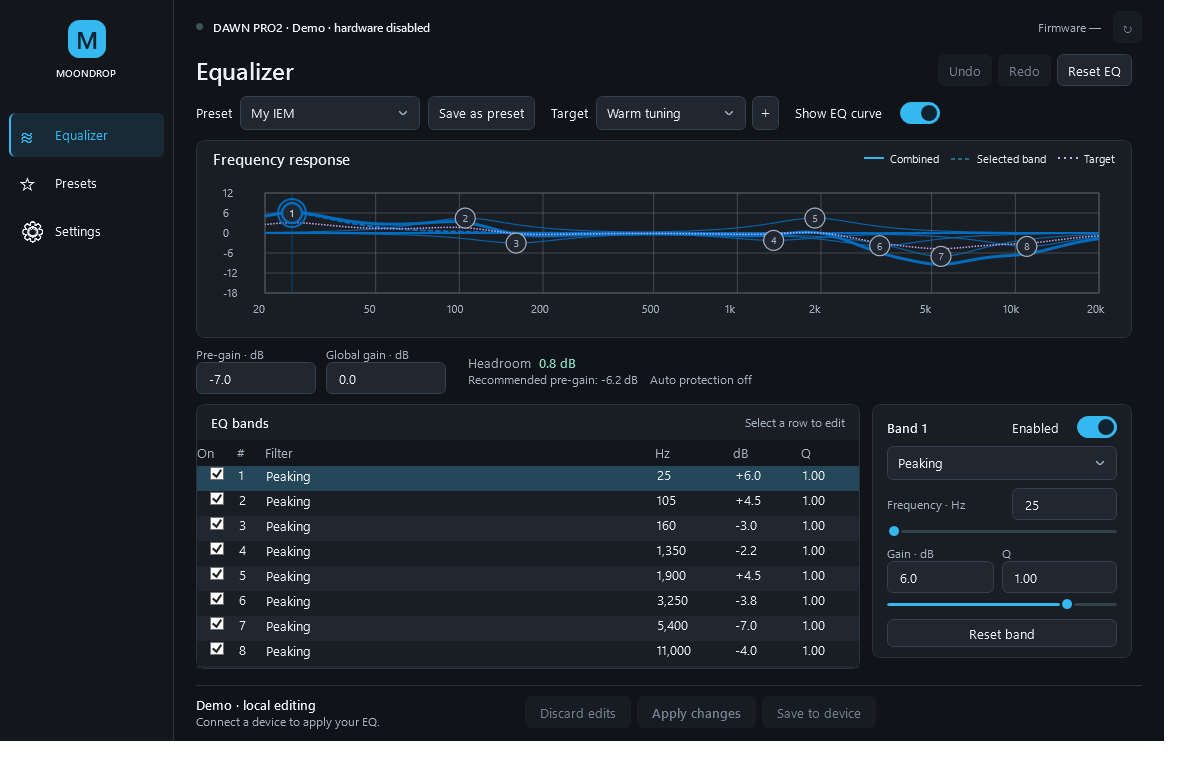
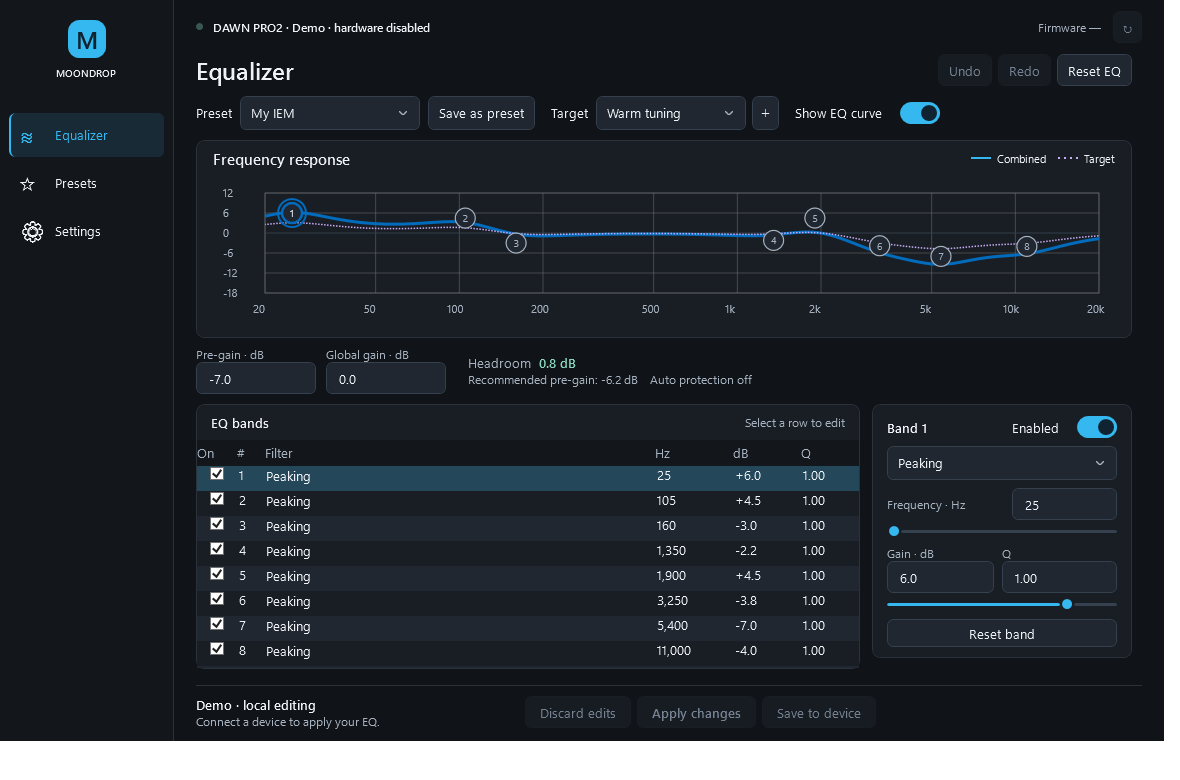
Simplify the EQ graph and fix Windows runner compatibility

diff --git a/src/Moondrop.Wpf/MainWindow.xaml b/src/Moondrop.Wpf/MainWindow.xaml
@@ -45,7 +45,7 @@
         <Border x:Name="GraphCard" Height="222" Style="{StaticResource CompactCardBorderStyle}" Padding="12,8">
          <Grid><Grid.RowDefinitions><RowDefinition Height="Auto"/><RowDefinition Height="*"/></Grid.RowDefinitions>
           <Grid Margin="4,0,4,6"><Grid.ColumnDefinitions><ColumnDefinition/><ColumnDefinition Width="Auto"/></Grid.ColumnDefinitions><TextBlock Text="Frequency response" Style="{StaticResource SectionTitleTextStyle}"/>
-           <WrapPanel Grid.Column="1" VerticalAlignment="Center"><Line X1="0" X2="20" Stroke="{DynamicResource AccentFillColorDefaultBrush}" StrokeThickness="2" Width="20" VerticalAlignment="Center"/><TextBlock Text="Combined" FontSize="11" Margin="6,0,12,0"/><Line X1="0" X2="20" Stroke="{DynamicResource AccentFillColorDefaultBrush}" StrokeThickness="1" StrokeDashArray="4 3" Width="20" VerticalAlignment="Center"/><TextBlock Text="Selected band" FontSize="11" Margin="6,0,12,0"/><Line X1="0" X2="20" Stroke="{DynamicResource TargetBrush}" StrokeThickness="2" StrokeDashArray="1 2" Width="20" VerticalAlignment="Center"/><TextBlock Text="Target" FontSize="11" Margin="6,0,0,0"/></WrapPanel>
+           <WrapPanel Grid.Column="1" VerticalAlignment="Center"><Line X1="0" X2="20" Stroke="{DynamicResource AccentFillColorDefaultBrush}" StrokeThickness="2" Width="20" VerticalAlignment="Center"/><TextBlock Text="Combined" FontSize="11" Margin="6,0,12,0"/><StackPanel Orientation="Horizontal" Visibility="{Binding IndividualCurves, Converter={StaticResource BoolToVisibility}}"><Line X1="0" X2="20" Stroke="{DynamicResource AccentFillColorDefaultBrush}" StrokeThickness="1" StrokeDashArray="4 3" Width="20" VerticalAlignment="Center"/><TextBlock Text="Selected band" FontSize="11" Margin="6,0,12,0"/></StackPanel><Line X1="0" X2="20" Stroke="{DynamicResource TargetBrush}" StrokeThickness="2" StrokeDashArray="1 2" Width="20" VerticalAlignment="Center"/><TextBlock Text="Target" FontSize="11" Margin="6,0,0,0"/></WrapPanel>
           </Grid>
           <local:EqGraph x:Name="EqGraphControl" Grid.Row="1" Bands="{Binding Bands}" PreGain="0" SelectedBandIndex="{Binding SelectedBandIndex, Mode=TwoWay}" IndividualCurves="{Binding IndividualCurves}" ReferenceBands="{Binding ReferenceBands}" ShowReference="{Binding ShowReferenceCurve}" PreviewEnabled="{Binding PreviewEq}" AutomationProperties.Name="EQ response graph" AutomationProperties.HelpText="EQ filter shapes in dB versus frequency in Hz. Gains are shown separately. Arrow keys edit frequency and gain; Page Up/Down edit Q; Ctrl arrows select bands." ToolTip="EQ filter shapes only; pre-gain and global gain are shown separately. Drag a marker to edit frequency and gain; scroll to adjust Q."/>
          </Grid>

diff --git a/tests-dotnet/Moondrop.Tests/PhysicalWatchdogTests.cs b/tests-dotnet/Moondrop.Tests/PhysicalWatchdogTests.cs
@@ -218,7 +218,7 @@ public sealed class PhysicalWatchdogTests
         var launch = new PhysicalProcessLaunchPlan(
             Path.Combine(windows, "System32", "WindowsPowerShell", "v1.0", "powershell.exe"),
             Path.GetTempPath(),
-            ["-NoProfile", "-Command", $"$p=Start-Process ping.exe -ArgumentList '127.0.0.1','-n','60' -PassThru; Set-Content -LiteralPath '{childPidFile}' -Value $p.Id; Wait-Process -Id $p.Id"],
+            ["-NoProfile", "-Command", $"$p=Start-Process '{Path.Combine(windows, "System32", "PING.EXE")}' -ArgumentList '127.0.0.1','-n','60' -PassThru; Set-Content -LiteralPath '{childPidFile}' -Value $p.Id; Wait-Process -Id $p.Id"],
             new[] { "SystemRoot", "WINDIR", "TEMP", "TMP" }.ToDictionary(
                 name => name,
                 name => Environment.GetEnvironmentVariable(name)!,
@@ -1413,7 +1413,7 @@ public sealed class PhysicalWatchdogTests
         var startInfo = PhysicalRunnerProcessStartInfo.Create(command);
         var expected = command.Environment.ToDictionary(pair => pair.Key, pair => pair.Value, StringComparer.OrdinalIgnoreCase);
         foreach (var name in new[] { "SystemRoot", "WINDIR", "TEMP", "TMP" })
-            expected[name] = Environment.GetEnvironmentVariable(name)!;
+            expected[name] = Path.GetFullPath(Environment.GetEnvironmentVariable(name)!);
 
         CollectionAssert.AreEquivalent(expected.Keys.ToArray(), startInfo.Environment.Keys.ToArray());
         foreach (var pair in expected)
@@ -1440,7 +1440,7 @@ public sealed class PhysicalWatchdogTests
         var startInfo = PhysicalRunnerProcessStartInfo.Create(command);
         var expected = command.Environment.ToDictionary(pair => pair.Key, pair => pair.Value, StringComparer.OrdinalIgnoreCase);
         foreach (var name in new[] { "SystemRoot", "WINDIR", "TEMP", "TMP" })
-            expected[name] = Environment.GetEnvironmentVariable(name)!;
+            expected[name] = Path.GetFullPath(Environment.GetEnvironmentVariable(name)!);
 
         CollectionAssert.AreEquivalent(expected.Keys.ToArray(), startInfo.Environment.Keys.ToArray());
         foreach (var pair in expected)
@@ -3152,7 +3152,8 @@ public sealed class PhysicalWatchdogTests
              directory = directory.Parent)
         {
             var candidate = Path.Combine(directory.FullName, "dotnet.exe");
-            var profile = directory.Parent?.FullName;
+            var profile = directory.Name.Equals(".dotnet", StringComparison.OrdinalIgnoreCase)
+                ? directory.Parent?.FullName : Environment.GetFolderPath(Environment.SpecialFolder.UserProfile);
             if (File.Exists(candidate) && profile is not null &&
                 Directory.Exists(Path.Combine(profile, ".nuget", "packages")))
                 return candidate;

diff --git a/src/Moondrop.Wpf/EqGraph.cs b/src/Moondrop.Wpf/EqGraph.cs
@@ -80,7 +80,7 @@ public static class EqGraphResponse
 
 public sealed class EqGraph : FrameworkElement
 {
-    public static readonly DependencyProperty IndividualCurvesProperty = DependencyProperty.Register(nameof(IndividualCurves), typeof(bool), typeof(EqGraph), new FrameworkPropertyMetadata(true, FrameworkPropertyMetadataOptions.AffectsRender));
+    public static readonly DependencyProperty IndividualCurvesProperty = DependencyProperty.Register(nameof(IndividualCurves), typeof(bool), typeof(EqGraph), new FrameworkPropertyMetadata(false, FrameworkPropertyMetadataOptions.AffectsRender));
     public static readonly DependencyProperty ShowReferenceProperty = DependencyProperty.Register(nameof(ShowReference), typeof(bool), typeof(EqGraph), new FrameworkPropertyMetadata(true, FrameworkPropertyMetadataOptions.AffectsRender));
     public static readonly DependencyProperty PreviewEnabledProperty = DependencyProperty.Register(nameof(PreviewEnabled), typeof(bool), typeof(EqGraph), new FrameworkPropertyMetadata(true, FrameworkPropertyMetadataOptions.AffectsRender));
     public static readonly DependencyProperty ReferenceBandsProperty = DependencyProperty.Register(nameof(ReferenceBands), typeof(IEnumerable<BandViewModel>), typeof(EqGraph), new FrameworkPropertyMetadata(null, FrameworkPropertyMetadataOptions.AffectsRender));
@@ -402,8 +402,9 @@ public sealed class EqGraph : FrameworkElement
         }
         _individualResponsePen ??= CreateIndividualResponsePen(0.88, 1.1, selected: false);
         _selectedResponsePen ??= CreateIndividualResponsePen(1, 1.9, selected: true);
-        foreach (var band in _cachedBandResponses.Where(b => IndividualCurves || b.BandIndex == SelectedBandIndex))
-            dc.DrawGeometry(null, band.BandIndex == SelectedBandIndex ? _selectedResponsePen : _individualResponsePen, band.Geometry);
+        if (IndividualCurves)
+            foreach (var band in _cachedBandResponses)
+                dc.DrawGeometry(null, band.BandIndex == SelectedBandIndex ? _selectedResponsePen : _individualResponsePen, band.Geometry);
         _responsePen ??= CreateResponsePen();
         dc.DrawGeometry(null, _responsePen, _cachedResponse);
     }
@@ -420,9 +421,6 @@ public sealed class EqGraph : FrameworkElement
             var outline = selected ? CreateAccentPen(2.5) : new Pen(ThemeBrush("TextFillColorSecondaryBrush", SystemColors.WindowTextBrush), 1.2);
             if (selected)
             {
-                var guide = CreateAccentPen(1);
-                guide.DashStyle = DashStyles.Dot;
-                dc.DrawLine(guide, new Point(point.X, plot.Top), new Point(point.X, plot.Bottom));
                 dc.DrawEllipse(null, CreateAccentPen(2), point, 14, 14);
             }
             dc.DrawEllipse(fill, outline, point, 10, 10);

diff --git a/tests-dotnet/Moondrop.Tests/UiDesignRegressionTests.cs b/tests-dotnet/Moondrop.Tests/UiDesignRegressionTests.cs
@@ -112,6 +112,44 @@ public sealed class UiDesignRegressionTests
     }
 
     [TestMethod]
+    public void GraphRendersOnlyTheCombinedCurveUntilBandOverlaysAreRequested()
+    {
+        WpfTestHost.Run(() =>
+        {
+            using var model = MainViewModel.CreateDemo();
+            Assert.IsFalse(model.IndividualCurves);
+            var window = new MainWindow(model, LaunchOptions.Parse(["--demo"]));
+            try
+            {
+                window.Show(); window.UpdateLayout();
+                var graph = (EqGraph)window.FindName("EqGraphControl");
+                int CurveCount()
+                {
+                    window.UpdateLayout();
+                    var bitmap = new System.Windows.Media.Imaging.RenderTargetBitmap(
+                        (int)graph.ActualWidth, (int)graph.ActualHeight, 96, 96, PixelFormats.Pbgra32);
+                    bitmap.Render(graph);
+                    return CurveDrawings(VisualTreeHelper.GetDrawing(graph)).Count();
+                }
+                Assert.AreEqual(1, CurveCount(), "The selected band must not add its own response curve in the clean view.");
+                model.IndividualCurves = true;
+                Assert.AreEqual(9, CurveCount(), "The optional setting shows eight band responses plus their sum.");
+                model.IndividualCurves = false;
+                Assert.AreEqual(1, CurveCount());
+            }
+            finally { window.Close(); }
+        });
+    }
+
+    private static IEnumerable<GeometryDrawing> CurveDrawings(Drawing drawing)
+    {
+        if (drawing is GeometryDrawing { Geometry: StreamGeometry } curve) yield return curve;
+        if (drawing is DrawingGroup group)
+            foreach (var child in group.Children)
+                foreach (var curveChild in CurveDrawings(child)) yield return curveChild;
+    }
+
+    [TestMethod]
     public void ComboBoxSelectionAndArrowHaveSeparateSpaceAndSettingsUseSwitchTemplates()
     {
         WpfTestHost.Run(() =>

diff --git a/src/Moondrop.Hardware/SafeUsbContext.cs b/src/Moondrop.Hardware/SafeUsbContext.cs
@@ -1,0 +1,17 @@
+using LibUsbDotNet.LibUsb;
+
+namespace Moondrop.Hardware;
+
+internal sealed class SafeUsbContext : UsbContext
+{
+    private readonly bool _initialized;
+
+    public SafeUsbContext() => _initialized = true;
+
+    protected override void Dispose(bool disposeManagedObjects)
+    {
+        // The upstream finalizer assumes its constructor completed. A missing
+        // native libusb library can throw before those fields are initialized.
+        if (_initialized) base.Dispose(disposeManagedObjects);
+    }
+}

diff --git a/src/Moondrop.Core/Eq/EqWorkspace.cs b/src/Moondrop.Core/Eq/EqWorkspace.cs
@@ -85,7 +85,7 @@ public sealed record WorkspacePreferences
     public bool ConfirmFlash { get; init; } = true;
     public bool RememberEq { get; init; } = true;
     public bool AutoPreamp { get; init; }
-    public bool IndividualCurves { get; init; } = true;
+    public bool IndividualCurves { get; init; }
     public bool ReferenceCurve { get; init; } = true;
     public bool DebugLogging { get; init; }
     public bool AutoRefresh { get; init; } = true;

diff --git a/src/Moondrop.Hardware/Transports.cs b/src/Moondrop.Hardware/Transports.cs
@@ -167,7 +167,7 @@ public sealed class LibUsbLegacyTransport : ILegacyUsbTransport, IDisposable
 
     public static LibUsbLegacyTransport Open(AppConfig config, out string displayName)
     {
-        var context = new UsbContext();
+        var context = new SafeUsbContext();
         foreach (var candidate in CandidateIds(config))
         {
             var device = context.Find(new UsbDeviceFinder { Vid = candidate.Vid, Pid = candidate.Pid });

diff --git a/src/Moondrop.Hardware/DeviceDiagnostics.cs b/src/Moondrop.Hardware/DeviceDiagnostics.cs
@@ -48,7 +48,7 @@ public static class DeviceDiagnostics
         builder.AppendLine("USB devices");
         try
         {
-            using var context = new UsbContext();
+            using var context = new SafeUsbContext();
             var devices = context.FindAll(_ => true).OrderBy(x => x.VendorId).ThenBy(x => x.ProductId).ToArray();
             if (devices.Length == 0)
             {

diff --git a/docs/ui-redesign.md b/docs/ui-redesign.md
@@ -9,7 +9,7 @@ This implements the three-page design and screenshot audit for the current nativ
 | Navigation and device panel | Equalizer, Presets, Settings; compact device/firmware header; refresh next to device identity; no separate Device or About page. |
 | Control styling | Rounded inputs and dropdowns, correctly separated dropdown arrows, right-aligned switches, accent selection and primary actions, dark/light palettes. |
 | EQ preset identity | Actual preset selector and edited indicator; selection stays stable while editing; Save as preset near the picker. |
-| Chart | Frequency response title and visual legend; distinct target overlay; chart grows with window height; graph help explains gain scope. |
+| Chart | One combined response by default, draggable numbered markers, no persistent selected-band guide; optional per-band responses in Settings; title and visual legend; distinct target overlay; chart grows with window height. |
 | EQ bands | All eight bands and the complete editor fit at 1180×780; no nested editor scrolling; narrow windows use a single page scroll. |
 | Numeric formatting | Whole-Hz frequency grouping, one decimal for dB, concise Q, no negative zero; very small supported Q retains sufficient precision. |
 | Gain information | Grouped pre-gain/global gain, colored estimated headroom, recommended pre-gain, visible auto-protection state. |
@@ -37,5 +37,6 @@ This implements the three-page design and screenshot audit for the current nativ
 - Separate published-process workspace write/read smoke: import/export round trips, two local presets, remembered settings, edited bands, target, discard behavior, and disabled hardware actions without a connection.
 - Visual inspection of normal dark/light EQ, populated and empty Presets, Settings, and narrow layouts.
 - Self-contained Windows x64 publish and hardware-free apphost launch.
+- Windows runner compatibility: canonical temporary paths, SDK discovery for system/user installations, absolute paths for child-process fixtures, and safe disposal when the optional legacy USB library fails to initialize.
 
 No physical write suite or power-cycle verification was run for this redesign. No GitHub release is created by this change.

diff --git a/README-WINDOWS.md b/README-WINDOWS.md
@@ -2,9 +2,12 @@
 
 Native Windows control app for Moondrop DAWN PRO2 and the original Dawn Pro. The current app uses WPF and .NET 10, with three pages: Equalizer, Presets, and Settings.
 
+![Equalizer workspace with the combined EQ curve](docs/images/eq.png)
+
 ## Equalizer
 
 - Interactive frequency-response graph, eight-band table, and selected-band editor.
+- The default graph shows one combined response with draggable numbered markers. Individual band response lines are an optional setting and are off by default.
 - Device identity, firmware, refresh, pre-gain, and global gain in the editing workspace.
 - Preset picker, edited indicator, undo/redo, reset, and local preset saving.
 - Imported or saved EQ curves can be selected as a separate target overlay.
